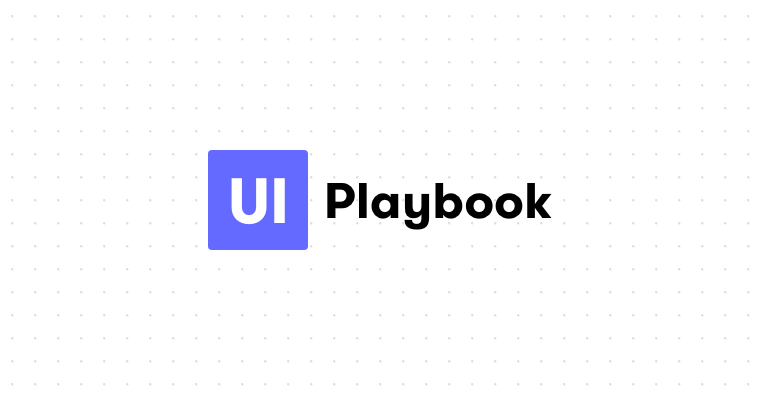
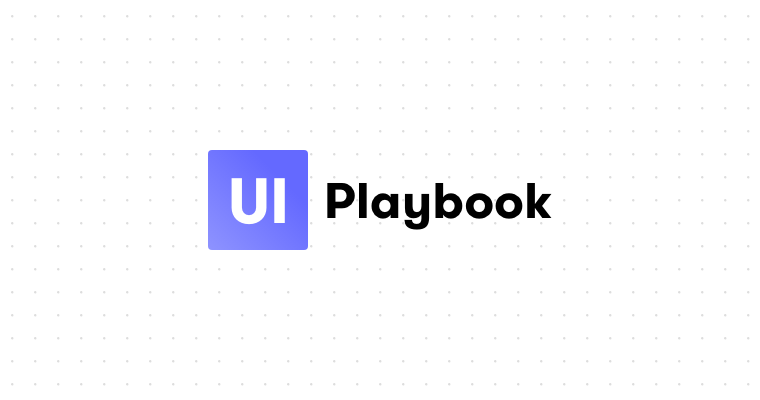
feat: gradients are a thing in 2020 ✨

Changed region(s): [[0.2724, 0.48, 0.3632, 0.63]]

diff --git a/src/components/Icon/Icon.tsx b/src/components/Icon/Icon.tsx
@@ -131,28 +131,18 @@ const ICONS = {
 	),
 	logo: (
 		<svg width="130" height="40" viewBox="0 0 407.188 100">
+			<defs>
+				<linearGradient id="linear-gradient" x1="0.73" y1="0.284" x2="0" y2="1" gradientUnits="objectBoundingBox">
+					<stop offset="0" stopColor="#6469ff"/>
+					<stop offset="1" stopColor="#8e93ff"/>
+				</linearGradient>
+			</defs>
 			<g id="Group_9" transform="translate(-68 415)">
 				<g id="Group_8" transform="translate(-622 -539)">
-					<rect
-						id="Rectangle_10"
-						width="100"
-						height="100"
-						rx="4"
-						transform="translate(690 124)"
-						fill="#6469ff"
-					/>
-					<path
-						id="Path_4"
-						d="M3.594-15.281V-44.812H13.938v29.438a8.336,8.336,0,0,0,.516,2.922,7.186,7.186,0,0,0,1.453,2.406,7.19,7.19,0,0,0,2.219,1.625A6.611,6.611,0,0,0,21-7.812a6.818,6.818,0,0,0,2.906-.609,6.9,6.9,0,0,0,2.234-1.625,7.359,7.359,0,0,0,1.438-2.391,8.3,8.3,0,0,0,.516-2.937V-44.812H38.469v29.531A17.022,17.022,0,0,1,37.25-8.812a15.093,15.093,0,0,1-3.484,5.2,16.492,16.492,0,0,1-5.5,3.484A19.585,19.585,0,0,1,21,1.156,19.34,19.34,0,0,1,13.766-.125,16.561,16.561,0,0,1,8.3-3.609,15.059,15.059,0,0,1,4.813-8.828,17.058,17.058,0,0,1,3.594-15.281ZM46.313,0V-44.812h10.5V0Z"
-						transform="translate(710 197)"
-						fill="#fff"
-					/>
+					<rect id="Rectangle_10" width="100" height="100" rx="4" transform="translate(690 124)" fill="url(#linear-gradient)"/>
+					<path id="Path_4" d="M3.594-15.281V-44.812H13.938v29.438a8.336,8.336,0,0,0,.516,2.922,7.186,7.186,0,0,0,1.453,2.406,7.19,7.19,0,0,0,2.219,1.625A6.611,6.611,0,0,0,21-7.812a6.818,6.818,0,0,0,2.906-.609,6.9,6.9,0,0,0,2.234-1.625,7.359,7.359,0,0,0,1.438-2.391,8.3,8.3,0,0,0,.516-2.937V-44.812H38.469v29.531A17.022,17.022,0,0,1,37.25-8.812a15.093,15.093,0,0,1-3.484,5.2,16.492,16.492,0,0,1-5.5,3.484A19.585,19.585,0,0,1,21,1.156,19.34,19.34,0,0,1,13.766-.125,16.561,16.561,0,0,1,8.3-3.609,15.059,15.059,0,0,1,4.813-8.828a17.058,17.058,0,0,1-1.219-6.453ZM46.313,0V-44.812h10.5V0Z" transform="translate(710 197)" fill="#fff"/>
 				</g>
-				<path
-					id="Path_3"
-					d="M4.281,0V-44.812h18.75A16.7,16.7,0,0,1,29.766-43.5a15.873,15.873,0,0,1,5.156,3.531,15.546,15.546,0,0,1,3.3,5.156,16.825,16.825,0,0,1,1.156,6.219,16.741,16.741,0,0,1-1.156,6.188,15.546,15.546,0,0,1-3.3,5.156,15.873,15.873,0,0,1-5.156,3.531,16.7,16.7,0,0,1-6.734,1.313H14.656V0ZM14.656-20.875H21.75a6.839,6.839,0,0,0,2.953-.641A6.932,6.932,0,0,0,26.984-23.2a7.659,7.659,0,0,0,1.438-2.453,8.466,8.466,0,0,0,.516-2.937,8.6,8.6,0,0,0-.516-2.953,7.624,7.624,0,0,0-1.437-2.469A6.976,6.976,0,0,0,24.719-35.7a6.81,6.81,0,0,0-2.969-.641H14.656ZM44.781,0V-44.812h9.781V0ZM60.969-15.437a18.247,18.247,0,0,1,1.109-6.437,15.291,15.291,0,0,1,3.094-5.109,14.945,14.945,0,0,1,4.641-3.391,13.333,13.333,0,0,1,5.75-1.25,11.835,11.835,0,0,1,6.016,1.469,10.044,10.044,0,0,1,3.828,3.719v-4.406h9.781V0H85.406V-4.344A9.587,9.587,0,0,1,81.688-.719a11.917,11.917,0,0,1-6.125,1.5,13.364,13.364,0,0,1-5.734-1.25,14.774,14.774,0,0,1-4.656-3.406A15.468,15.468,0,0,1,62.078-9,18.247,18.247,0,0,1,60.969-15.437Zm9.719,0a8.578,8.578,0,0,0,.547,3.047,7.691,7.691,0,0,0,1.5,2.5,7.339,7.339,0,0,0,2.3,1.688,6.883,6.883,0,0,0,3,.641A6.986,6.986,0,0,0,81.047-8.2a7.288,7.288,0,0,0,2.313-1.687,7.726,7.726,0,0,0,1.5-2.484,8.54,8.54,0,0,0,.547-3.062,8.2,8.2,0,0,0-.547-3,8.41,8.41,0,0,0-1.5-2.5,6.829,6.829,0,0,0-2.3-1.719,7.1,7.1,0,0,0-3.031-.625,7.029,7.029,0,0,0-3,.625,6.829,6.829,0,0,0-2.3,1.719,8.41,8.41,0,0,0-1.5,2.5A8.2,8.2,0,0,0,70.688-15.437ZM103.125,2.375h9.594a5.461,5.461,0,0,0,1.438,3.719q1.375,1.469,4.656,1.469a5.823,5.823,0,0,0,4.563-1.672q1.5-1.672,1.5-5.578v-5.25a8.891,8.891,0,0,1-3.906,3.875,13.3,13.3,0,0,1-6.25,1.375,12.2,12.2,0,0,1-5.25-.984,9.757,9.757,0,0,1-3.344-2.516A9.085,9.085,0,0,1,104.2-7.312,30.5,30.5,0,0,1,103.75-13V-30.844h9.75v15.813a10.909,10.909,0,0,0,1.172,5.391q1.172,2.078,4.266,2.078a5.062,5.062,0,0,0,4.5-2.109,9.985,9.985,0,0,0,1.438-5.7V-30.844h9.781V-.187q0,7.875-3.734,11.422t-11.859,3.547a26.017,26.017,0,0,1-7.3-.891,13.3,13.3,0,0,1-4.937-2.531,9.743,9.743,0,0,1-2.812-3.937A13.848,13.848,0,0,1,103.125,2.375ZM142.844,0V-44.812h9.781v18.375a9.8,9.8,0,0,1,3.719-3.656,11.916,11.916,0,0,1,6.219-1.531,13.548,13.548,0,0,1,5.719,1.219,14.311,14.311,0,0,1,4.641,3.391,15.826,15.826,0,0,1,3.109,5.156,18.057,18.057,0,0,1,1.125,6.422A18.02,18.02,0,0,1,176.031-9a15.678,15.678,0,0,1-3.109,5.125,14.828,14.828,0,0,1-4.641,3.406A13.405,13.405,0,0,1,162.5.781,11.6,11.6,0,0,1,156.25-.8a10.119,10.119,0,0,1-3.625-3.547V0Zm9.781-15.437a8.5,8.5,0,0,0,.547,3.078,8,8,0,0,0,1.516,2.5A6.908,6.908,0,0,0,157-8.172a7.182,7.182,0,0,0,3,.609,6.883,6.883,0,0,0,3-.641,7.529,7.529,0,0,0,2.313-1.687,7.581,7.581,0,0,0,1.516-2.484,8.54,8.54,0,0,0,.547-3.062,8.728,8.728,0,0,0-.516-2.969,7.693,7.693,0,0,0-1.484-2.531,6.908,6.908,0,0,0-2.344-1.719A7.24,7.24,0,0,0,160-23.281a7.029,7.029,0,0,0-3,.625,6.994,6.994,0,0,0-2.312,1.719,8.24,8.24,0,0,0-1.516,2.5A8.2,8.2,0,0,0,152.625-15.437Zm28.875,0a16.71,16.71,0,0,1,1.172-6.25,15.157,15.157,0,0,1,3.391-5.156,16.407,16.407,0,0,1,5.375-3.531,18.577,18.577,0,0,1,7.188-1.312,18.7,18.7,0,0,1,7.2,1.313,16.191,16.191,0,0,1,5.375,3.531,15.075,15.075,0,0,1,3.359,5.156,16.909,16.909,0,0,1,1.156,6.25,17.031,17.031,0,0,1-1.156,6.266A15.04,15.04,0,0,1,211.2-4a16.191,16.191,0,0,1-5.375,3.531,18.7,18.7,0,0,1-7.2,1.313,18.577,18.577,0,0,1-7.187-1.312A16.407,16.407,0,0,1,186.063-4a15.157,15.157,0,0,1-3.391-5.156A16.794,16.794,0,0,1,181.5-15.437Zm9.781,0a8.963,8.963,0,0,0,.516,3.078,7.692,7.692,0,0,0,1.469,2.5,6.745,6.745,0,0,0,2.3,1.688,7.182,7.182,0,0,0,3,.609,7.508,7.508,0,0,0,3.047-.609,6.635,6.635,0,0,0,2.344-1.687,8.2,8.2,0,0,0,1.5-2.484A8.467,8.467,0,0,0,206-15.437a8.452,8.452,0,0,0-.547-3.031,7.916,7.916,0,0,0-1.5-2.5,6.943,6.943,0,0,0-2.328-1.687,7.317,7.317,0,0,0-3.062-.625,7.029,7.029,0,0,0-3,.625,7.029,7.029,0,0,0-2.3,1.688,7.48,7.48,0,0,0-1.469,2.5A8.909,8.909,0,0,0,191.281-15.437Zm28.531,0a16.71,16.71,0,0,1,1.172-6.25,15.157,15.157,0,0,1,3.391-5.156,16.407,16.407,0,0,1,5.375-3.531,18.577,18.577,0,0,1,7.188-1.312,18.7,18.7,0,0,1,7.2,1.313,16.191,16.191,0,0,1,5.375,3.531,15.075,15.075,0,0,1,3.359,5.156,16.909,16.909,0,0,1,1.156,6.25,17.031,17.031,0,0,1-1.156,6.266A15.04,15.04,0,0,1,249.516-4a16.191,16.191,0,0,1-5.375,3.531,18.7,18.7,0,0,1-7.2,1.313A18.577,18.577,0,0,1,229.75-.469,16.407,16.407,0,0,1,224.375-4a15.157,15.157,0,0,1-3.391-5.156A16.794,16.794,0,0,1,219.813-15.437Zm9.781,0a8.963,8.963,0,0,0,.516,3.078,7.692,7.692,0,0,0,1.469,2.5,6.745,6.745,0,0,0,2.3,1.688,7.182,7.182,0,0,0,3,.609,7.508,7.508,0,0,0,3.047-.609,6.635,6.635,0,0,0,2.344-1.687,8.2,8.2,0,0,0,1.5-2.484,8.467,8.467,0,0,0,.547-3.094,8.452,8.452,0,0,0-.547-3.031,7.916,7.916,0,0,0-1.5-2.5,6.943,6.943,0,0,0-2.328-1.687,7.317,7.317,0,0,0-3.062-.625,7.029,7.029,0,0,0-3,.625,7.029,7.029,0,0,0-2.3,1.688,7.48,7.48,0,0,0-1.469,2.5A8.909,8.909,0,0,0,229.594-15.437ZM260.219,0V-44.812H270v27.031l9.563-13.062h11.625L279.156-15.437,291.125,0H279.5L270-12.937V0Z"
-					transform="translate(184 -342)"
-				/>
+				<path id="Path_3" d="M4.281,0V-44.812h18.75A16.7,16.7,0,0,1,29.766-43.5a15.873,15.873,0,0,1,5.156,3.531,15.546,15.546,0,0,1,3.3,5.156,16.825,16.825,0,0,1,1.156,6.219,16.741,16.741,0,0,1-1.156,6.188,15.546,15.546,0,0,1-3.3,5.156,15.873,15.873,0,0,1-5.156,3.531,16.7,16.7,0,0,1-6.734,1.313H14.656V0ZM14.656-20.875H21.75a6.839,6.839,0,0,0,2.953-.641A6.932,6.932,0,0,0,26.984-23.2a7.659,7.659,0,0,0,1.438-2.453,8.466,8.466,0,0,0,.516-2.937,8.6,8.6,0,0,0-.516-2.953,7.624,7.624,0,0,0-1.437-2.469A6.976,6.976,0,0,0,24.719-35.7a6.81,6.81,0,0,0-2.969-.641H14.656ZM44.781,0V-44.812h9.781V0ZM60.969-15.437a18.247,18.247,0,0,1,1.109-6.437,15.291,15.291,0,0,1,3.094-5.109,14.945,14.945,0,0,1,4.641-3.391,13.333,13.333,0,0,1,5.75-1.25,11.835,11.835,0,0,1,6.016,1.469,10.044,10.044,0,0,1,3.828,3.719v-4.406h9.781V0H85.406V-4.344A9.587,9.587,0,0,1,81.688-.719a11.917,11.917,0,0,1-6.125,1.5,13.364,13.364,0,0,1-5.734-1.25,14.774,14.774,0,0,1-4.656-3.406A15.468,15.468,0,0,1,62.078-9a18.247,18.247,0,0,1-1.109-6.437Zm9.719,0a8.578,8.578,0,0,0,.547,3.047,7.691,7.691,0,0,0,1.5,2.5,7.339,7.339,0,0,0,2.3,1.688,6.883,6.883,0,0,0,3,.641A6.986,6.986,0,0,0,81.047-8.2,7.288,7.288,0,0,0,83.36-9.887a7.726,7.726,0,0,0,1.5-2.484,8.54,8.54,0,0,0,.547-3.062,8.2,8.2,0,0,0-.547-3,8.41,8.41,0,0,0-1.5-2.5,6.829,6.829,0,0,0-2.3-1.719,7.1,7.1,0,0,0-3.031-.625,7.029,7.029,0,0,0-3,.625,6.829,6.829,0,0,0-2.3,1.719,8.41,8.41,0,0,0-1.5,2.5,8.2,8.2,0,0,0-.541,3ZM103.125,2.375h9.594a5.461,5.461,0,0,0,1.438,3.719q1.375,1.469,4.656,1.469a5.823,5.823,0,0,0,4.563-1.672q1.5-1.672,1.5-5.578v-5.25a8.891,8.891,0,0,1-3.906,3.875A13.3,13.3,0,0,1,114.72.313a12.2,12.2,0,0,1-5.25-.984,9.757,9.757,0,0,1-3.344-2.516A9.085,9.085,0,0,1,104.2-7.312,30.5,30.5,0,0,1,103.75-13V-30.844h9.75v15.813a10.909,10.909,0,0,0,1.172,5.391q1.172,2.078,4.266,2.078a5.062,5.062,0,0,0,4.5-2.109,9.985,9.985,0,0,0,1.438-5.7V-30.844h9.781V-.187q0,7.875-3.734,11.422t-11.859,3.547a26.017,26.017,0,0,1-7.3-.891,13.3,13.3,0,0,1-4.937-2.531,9.743,9.743,0,0,1-2.812-3.937,13.848,13.848,0,0,1-.89-5.048ZM142.844,0V-44.812h9.781v18.375a9.8,9.8,0,0,1,3.719-3.656,11.916,11.916,0,0,1,6.219-1.531,13.548,13.548,0,0,1,5.719,1.219,14.311,14.311,0,0,1,4.641,3.391,15.826,15.826,0,0,1,3.109,5.156,18.058,18.058,0,0,1,1.125,6.422A18.02,18.02,0,0,1,176.031-9a15.678,15.678,0,0,1-3.109,5.125,14.828,14.828,0,0,1-4.641,3.406A13.4,13.4,0,0,1,162.5.781,11.6,11.6,0,0,1,156.25-.8a10.119,10.119,0,0,1-3.625-3.547V0Zm9.781-15.437a8.5,8.5,0,0,0,.547,3.078,8,8,0,0,0,1.516,2.5A6.908,6.908,0,0,0,157-8.172a7.182,7.182,0,0,0,3,.609,6.883,6.883,0,0,0,3-.641,7.529,7.529,0,0,0,2.313-1.687,7.581,7.581,0,0,0,1.516-2.484,8.54,8.54,0,0,0,.547-3.062,8.728,8.728,0,0,0-.516-2.969,7.693,7.693,0,0,0-1.484-2.531,6.908,6.908,0,0,0-2.344-1.719A7.24,7.24,0,0,0,160-23.281a7.029,7.029,0,0,0-3,.625,6.994,6.994,0,0,0-2.312,1.719,8.24,8.24,0,0,0-1.516,2.5,8.2,8.2,0,0,0-.547,3Zm28.875,0a16.71,16.71,0,0,1,1.172-6.25,15.157,15.157,0,0,1,3.391-5.156,16.407,16.407,0,0,1,5.375-3.531,18.577,18.577,0,0,1,7.188-1.312,18.7,18.7,0,0,1,7.2,1.313,16.191,16.191,0,0,1,5.375,3.531,15.075,15.075,0,0,1,3.359,5.156,16.909,16.909,0,0,1,1.156,6.25A17.031,17.031,0,0,1,214.56-9.17,15.04,15.04,0,0,1,211.2-4a16.191,16.191,0,0,1-5.375,3.531,18.7,18.7,0,0,1-7.2,1.313,18.577,18.577,0,0,1-7.187-1.312A16.407,16.407,0,0,1,186.063-4a15.157,15.157,0,0,1-3.391-5.156,16.794,16.794,0,0,1-1.172-6.281Zm9.781,0a8.963,8.963,0,0,0,.516,3.078,7.692,7.692,0,0,0,1.469,2.5,6.745,6.745,0,0,0,2.3,1.688,7.182,7.182,0,0,0,3,.609,7.508,7.508,0,0,0,3.047-.609,6.635,6.635,0,0,0,2.344-1.687,8.2,8.2,0,0,0,1.5-2.484A8.467,8.467,0,0,0,206-15.437a8.452,8.452,0,0,0-.547-3.031,7.916,7.916,0,0,0-1.5-2.5,6.943,6.943,0,0,0-2.328-1.687,7.317,7.317,0,0,0-3.062-.625,7.029,7.029,0,0,0-3,.625,7.029,7.029,0,0,0-2.3,1.688,7.48,7.48,0,0,0-1.469,2.5,8.908,8.908,0,0,0-.513,3.03Zm28.531,0a16.71,16.71,0,0,1,1.172-6.25,15.157,15.157,0,0,1,3.391-5.156,16.407,16.407,0,0,1,5.375-3.531,18.577,18.577,0,0,1,7.188-1.312,18.7,18.7,0,0,1,7.2,1.313,16.191,16.191,0,0,1,5.375,3.531,15.075,15.075,0,0,1,3.359,5.156,16.909,16.909,0,0,1,1.156,6.25,17.031,17.031,0,0,1-1.156,6.266A15.04,15.04,0,0,1,249.516-4a16.191,16.191,0,0,1-5.375,3.531,18.7,18.7,0,0,1-7.2,1.313A18.577,18.577,0,0,1,229.75-.469,16.407,16.407,0,0,1,224.375-4a15.157,15.157,0,0,1-3.391-5.156,16.794,16.794,0,0,1-1.171-6.281Zm9.781,0a8.963,8.963,0,0,0,.516,3.078,7.692,7.692,0,0,0,1.469,2.5,6.745,6.745,0,0,0,2.3,1.688,7.182,7.182,0,0,0,3,.609,7.508,7.508,0,0,0,3.047-.609,6.635,6.635,0,0,0,2.344-1.687,8.2,8.2,0,0,0,1.5-2.484,8.467,8.467,0,0,0,.547-3.094,8.452,8.452,0,0,0-.547-3.031,7.916,7.916,0,0,0-1.5-2.5,6.943,6.943,0,0,0-2.328-1.687,7.317,7.317,0,0,0-3.062-.625,7.029,7.029,0,0,0-3,.625,7.029,7.029,0,0,0-2.3,1.688,7.48,7.48,0,0,0-1.469,2.5,8.909,8.909,0,0,0-.516,3.029ZM260.219,0V-44.812H270v27.031l9.563-13.062h11.625L279.156-15.437,291.125,0H279.5L270-12.937V0Z" transform="translate(184 -342)"/>
 			</g>
 		</svg>
 	),
